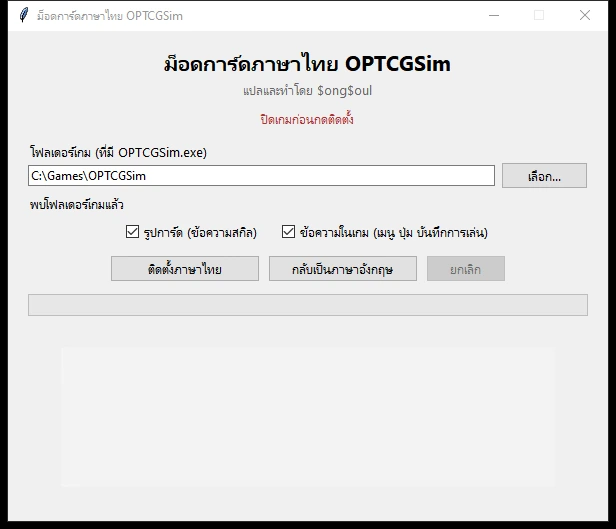
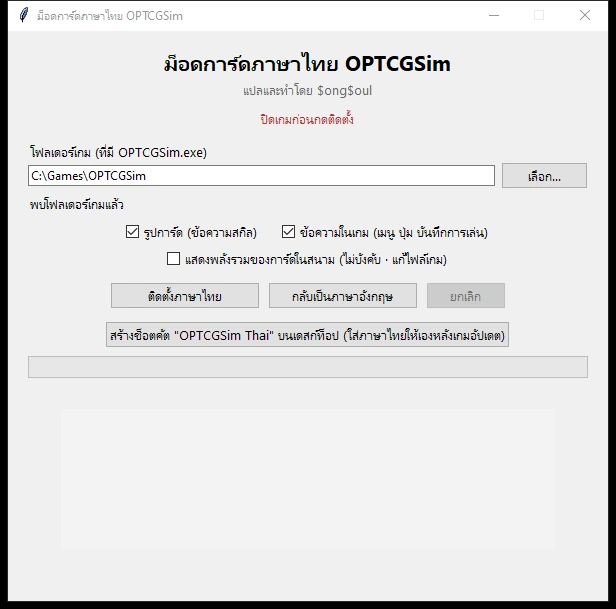
OPTCGSim page: game 1.45a, shortcut, power label, mobile version note
- Windows installer supports 1.45a; site-data refreshed (2,723 cards,
  1,452 UI lines) and page metadata now reads the counts from site data
- Explain the "OPTCGSim Thai" shortcut (re-applies Thai after game
  updates, downloads new card translations) in steps, features and FAQ
- Describe the optional total-power label (buffs + DON!!)
- Android/iOS files show the game version they were built from (1.44a)
  with a note when it is older than the current game
- New installer window screenshot

diff --git a/src/components/Download.tsx b/src/components/Download.tsx
@@ -245,6 +245,16 @@ function WindowsPanel() {
             ),
           },
           { title: "รอจนเสร็จ แล้วเปิดเกม", time: "~2–5 นาที", text: <>โปรแกรมสำรองรูปอังกฤษเดิมไว้ให้ เมื่อเสร็จเปิดเกม OPTCGSim ได้เลย</> },
+          {
+            title: "สร้างช็อตคัต \"OPTCGSim Thai\" (แนะนำ)",
+            time: "~5 วินาที",
+            text: (
+              <>
+                กดปุ่มสร้างช็อตคัตในโปรแกรมครั้งเดียว แล้วเปิดเกมจากช็อตคัตนี้ เมื่อเกมอัปเดตจนรูปหรือเมนูกลับเป็นอังกฤษ
+                มันจะใส่ภาษาไทยให้ใหม่และดึงคำแปลการ์ดชุดใหม่ให้เองก่อนเปิดเกม
+              </>
+            ),
+          },
         ]}
       />
       <Warn>
@@ -252,6 +262,21 @@ function WindowsPanel() {
         ตรวจค่า SHA-256 ให้ตรงกับด้านบนได้ถ้าต้องการความมั่นใจ
       </Warn>
     </>
+  );
+}
+
+/** Game version an APK/IPA was built from, taken from its file name ("1.44a_Android_TH.apk" -> "1.44a"). */
+function fileVersion(name?: string) {
+  return name?.match(/^\d+\.\d+[a-z]?/)?.[0] ?? siteData.version;
+}
+
+function MobileVersionNote({ file }: { file: FileKey }) {
+  const v = fileVersion(siteData.files[file]?.name);
+  if (v === siteData.version) return null;
+  return (
+    <Warn>
+      ไฟล์นี้ทำจากเกมเวอร์ชัน {v} (เกมล่าสุดคือ {siteData.version}) ถ้าเกมบังคับอัปเดตก่อนเล่นออนไลน์ ให้รอไฟล์รุ่นใหม่
+    </Warn>
   );
 }
 
@@ -273,7 +298,7 @@ function AndroidPanel() {
             ไฟล์ <span className="mono">{apk?.name ?? "1.44a_Android_TH.apk"}</span> ขนาด {apk?.size ?? "—"} ติดตั้งแทนที่เกมเดิมได้เลยโดยไม่ต้องแปลงเอง
           </p>
           <div className="meta">
-            <span>เวอร์ชัน {siteData.version}</span>
+            <span>เวอร์ชันเกม {fileVersion(apk?.name)}</span>
             <span>อัปเดต {apk?.date ?? "—"}</span>
           </div>
           <HashButton file="androidReady" prefix="SHA-256: " />
@@ -289,6 +314,7 @@ function AndroidPanel() {
           { title: "เปิดเกมและนำเด็คกลับเข้าไป", time: "~1 นาที", text: <>เปิดเกม OPTCGSim แล้วนำเข้าเด็คที่สำรองไว้กลับเข้าไปตามเดิม</> },
         ]}
       />
+      <MobileVersionNote file="androidReady" />
       <Warn>ต้องถอนแอป OPTCGSim เวอร์ชันเดิมออกก่อนติดตั้งเวอร์ชันแปลไทย และควรสำรองโฟลเดอร์ Decks ไว้ล่วงหน้าเสมอ</Warn>
     </>
   );
@@ -299,6 +325,7 @@ function IosPanel() {
   return (
     <>
       <FileInfo file="ios" />
+      <MobileVersionNote file="ios" />
       <DownloadButton id="ios" label="ดาวน์โหลดไฟล์ .ipa" />
       <Steps
         title="ขั้นตอนติดตั้ง (ต้องใช้คอมพิวเตอร์)"
@@ -341,7 +368,8 @@ export default function Download() {
           <Heading>เลือกแพลตฟอร์มของคุณ</Heading>
           <Reveal delay={0.1}>
             <p style={{ marginTop: 8, fontSize: 14, color: "#d9ccaf" }}>
-              รองรับเกมเวอร์ชัน {siteData.version} — ถ้าเกมอัปเดตเป็นเวอร์ชันใหม่ ให้ติดตั้งม็อดซ้ำอีกครั้ง
+              ตัวติดตั้ง Windows รองรับเกมเวอร์ชัน {siteData.version} — เปิดเกมผ่านช็อตคัต &quot;OPTCGSim Thai&quot; แล้ว
+              เมื่อเกมอัปเดต มันจะใส่ภาษาไทยให้ใหม่และดึงคำแปลการ์ดล่าสุดให้เอง
             </p>
           </Reveal>
         </div>

diff --git a/src/data/faqs.ts b/src/data/faqs.ts
@@ -5,7 +5,11 @@ export type FaqItem = { q: string; a: string };
 export const OPTCGSIM_FAQS: FaqItem[] = [
   {
     q: "ใช้กับเกมเวอร์ชันไหนได้บ้าง?",
-    a: `รองรับเกมเวอร์ชัน ${siteData.version} เท่านั้น ถ้า OPTCGSim อัปเดตเป็นเวอร์ชันใหม่กว่านี้ ให้กลับมาที่หน้านี้แล้วติดตั้งม็อดซ้ำอีกครั้ง`,
+    a: `ตัวติดตั้ง Windows รองรับเกมเวอร์ชัน ${siteData.version} รูปการ์ดและเมนูใช้ได้กับเวอร์ชันใหม่ ๆ ด้วย ถ้าเปิดเกมผ่านช็อตคัต "OPTCGSim Thai" เมื่อเกมอัปเดตมันจะใส่ภาษาไทยให้ใหม่เอง (หรือเปิดตัวติดตั้งแล้วกดติดตั้งซ้ำ) ส่วนไฟล์ Android/iOS ดูเวอร์ชันเกมที่เขียนไว้ใต้ไฟล์`,
+  },
+  {
+    q: "ตัวเลือก \"แสดงพลังรวมของการ์ดในสนาม\" คืออะไร?",
+    a: "ตัวเลือกเสริมบน Windows (ปิดไว้เป็นค่าเริ่มต้น) ให้ป้ายพลังบนตัวละครและลีดเดอร์แสดงพลังรวมตลอดเวลา เช่น 8000 และบรรทัดล่างเป็นส่วนต่าง (+3000) ซึ่งรวมบัฟจากสกิลและ DON ที่ติดอยู่ในเทิร์นของเจ้าของการ์ดแล้ว เป็นการแก้ไฟล์โปรแกรมของเกม โปรแกรมเก็บไฟล์เดิมไว้และคืนได้ด้วยปุ่ม \"กลับเป็นภาษาอังกฤษ\" ถ้าเกมเวอร์ชันใหม่ยังไม่รองรับ จะข้ามตัวเลือกนี้โดยไม่แก้อะไร",
   },
   {
     q: "เล่นออนไลน์กับคนที่ไม่ได้ลงม็อดนี้ได้ไหม?",
@@ -25,7 +29,7 @@ export const OPTCGSIM_FAQS: FaqItem[] = [
   },
   {
     q: "การ์ดใบใหม่ยังเป็นภาษาอังกฤษอยู่ ทำไม?",
-    a: "เป็นการ์ดที่ยังไม่ได้รับการแปลในรุ่นนี้ และการ์ดที่ไม่มีข้อความสกิลบนรูปก็จะคงไว้เหมือนเดิม จะทยอยแปลเพิ่มในอัปเดตรุ่นถัดไป",
+    a: "เป็นการ์ดที่ยังไม่ได้แปล หรือการ์ดที่ไม่มีข้อความสกิล (คงไว้เหมือนเดิม) เมื่อมีคำแปลชุดใหม่ ตัวติดตั้ง Windows จะดาวน์โหลดคำแปลล่าสุดให้เองตอนติดตั้งหรือเปิดเกมผ่านช็อตคัต \"OPTCGSim Thai\" ไม่ต้องโหลดตัวติดตั้งใหม่ ส่วน Android/iOS ต้องรอไฟล์รุ่นถัดไป",
   },
 ];
 

diff --git a/src/app/optcgsim/page.tsx b/src/app/optcgsim/page.tsx
@@ -11,12 +11,16 @@ import Shots from "@/components/Shots";
 import Support from "@/components/Support";
 import Videos from "@/components/Videos";
 import { OPTCGSIM_FAQS } from "@/data/faqs";
+import { siteData } from "@/lib/site";
+
+const CARDS = siteData.cards.toLocaleString("en-US");
+const UI_LINES = siteData.uiLines.toLocaleString("en-US");
 
 export const metadata: Metadata = {
   title: "ม็อดการ์ดภาษาไทย OPTCGSim — ดาวน์โหลดสำหรับ Windows, Android, iOS",
   description:
-    "ม็อดแฟนเมดแปลสกิลการ์ด OPTCGSim 2,640 ใบ และข้อความในเกม 1,425 บรรทัดเป็นภาษาไทย ติดตั้งง่ายบน Windows, Android และ iOS กลับเป็นภาษาอังกฤษได้ทุกเมื่อ",
-  openGraph: { title: "ม็อดการ์ดภาษาไทย OPTCGSim", description: "เล่น OPTCGSim ด้วยการ์ดและเมนูภาษาไทย แปลสกิลการ์ด 2,640 ใบ", type: "website", locale: "th_TH" },
+    `ม็อดแฟนเมดแปลสกิลการ์ด OPTCGSim ${CARDS} ใบ และข้อความในเกม ${UI_LINES} บรรทัดเป็นภาษาไทย ติดตั้งง่ายบน Windows, Android และ iOS กลับเป็นภาษาอังกฤษได้ทุกเมื่อ`,
+  openGraph: { title: "ม็อดการ์ดภาษาไทย OPTCGSim", description: `เล่น OPTCGSim ด้วยการ์ดและเมนูภาษาไทย แปลสกิลการ์ด ${CARDS} ใบ`, type: "website", locale: "th_TH" },
 };
 
 export default function Page() {

diff --git a/src/components/Features.tsx b/src/components/Features.tsx
@@ -37,6 +37,26 @@ export default function Features() {
             <h3>ป้ายคีย์เวิร์ดสีตรงกับของจริง</h3>
             <p>คำสำคัญอย่างรัชหรือบล็อกเกอร์ ใช้โทนสีเดียวกับคีย์เวิร์ดในเกมต้นฉบับ จำง่าย ไม่ต้องท่องศัพท์ใหม่</p>
           </StaggerItem>
+          <StaggerItem className="card paper">
+            <WaxSeal size={58}>
+              <SlidersIcon />
+            </WaxSeal>
+            <h3>เกมอัปเดตก็ยังเป็นไทย</h3>
+            <p>
+              เปิดเกมผ่านช็อตคัต &quot;OPTCGSim Thai&quot; (Windows) ถ้าเกมอัปเดตจนกลับเป็นอังกฤษ จะใส่ภาษาไทยให้ใหม่
+              และดึงคำแปลการ์ดชุดใหม่ให้เองก่อนเปิดเกม
+            </p>
+          </StaggerItem>
+          <StaggerItem className="card paper">
+            <WaxSeal size={58}>
+              <ChatIcon />
+            </WaxSeal>
+            <h3>ดูพลังรวมบนสนาม (ไม่บังคับ)</h3>
+            <p>
+              ตัวเลือกเสริมบน Windows: ป้ายพลังแสดงพลังรวมตลอดเวลา พร้อมส่วนต่างจากบัฟและ DON เช่น 8000 (+3000)
+              เทียบพลังกับฝ่ายตรงข้ามได้ทันที
+            </p>
+          </StaggerItem>
         </Stagger>
       </div>
     </section>

diff --git a/src/components/Changelog.tsx b/src/components/Changelog.tsx
@@ -26,8 +26,10 @@ export default function Changelog() {
               <li>
                 แปลเมนู ปุ่ม และข้อความในเกมอีก <CountUp value={siteData.uiLines} /> บรรทัด
               </li>
-              <li>ตัวติดตั้ง Windows เลือกติดตั้งรูปการ์ดและข้อความในเกมแยกกันได้</li>
-              <li>รองรับเกม OPTCGSim เวอร์ชัน {siteData.version} บน Windows, Android และ iOS</li>
+              <li>ตัวติดตั้ง Windows รองรับเกมเวอร์ชัน {siteData.version} เลือกติดตั้งรูปการ์ดและข้อความในเกมแยกกันได้</li>
+              <li>ช็อตคัต &quot;OPTCGSim Thai&quot; ใส่ภาษาไทยให้เองหลังเกมอัปเดต และดึงคำแปลการ์ดชุดใหม่ให้อัตโนมัติ</li>
+              <li>ตัวเลือกเสริม: ป้ายพลังแสดงพลังรวม พร้อมส่วนต่างจากบัฟและ DON เช่น 8000 (+3000)</li>
+              <li>ไฟล์ Android และ iOS ยังเป็นเกมเวอร์ชัน 1.44a</li>
             </ul>
           </div>
         </Reveal>
